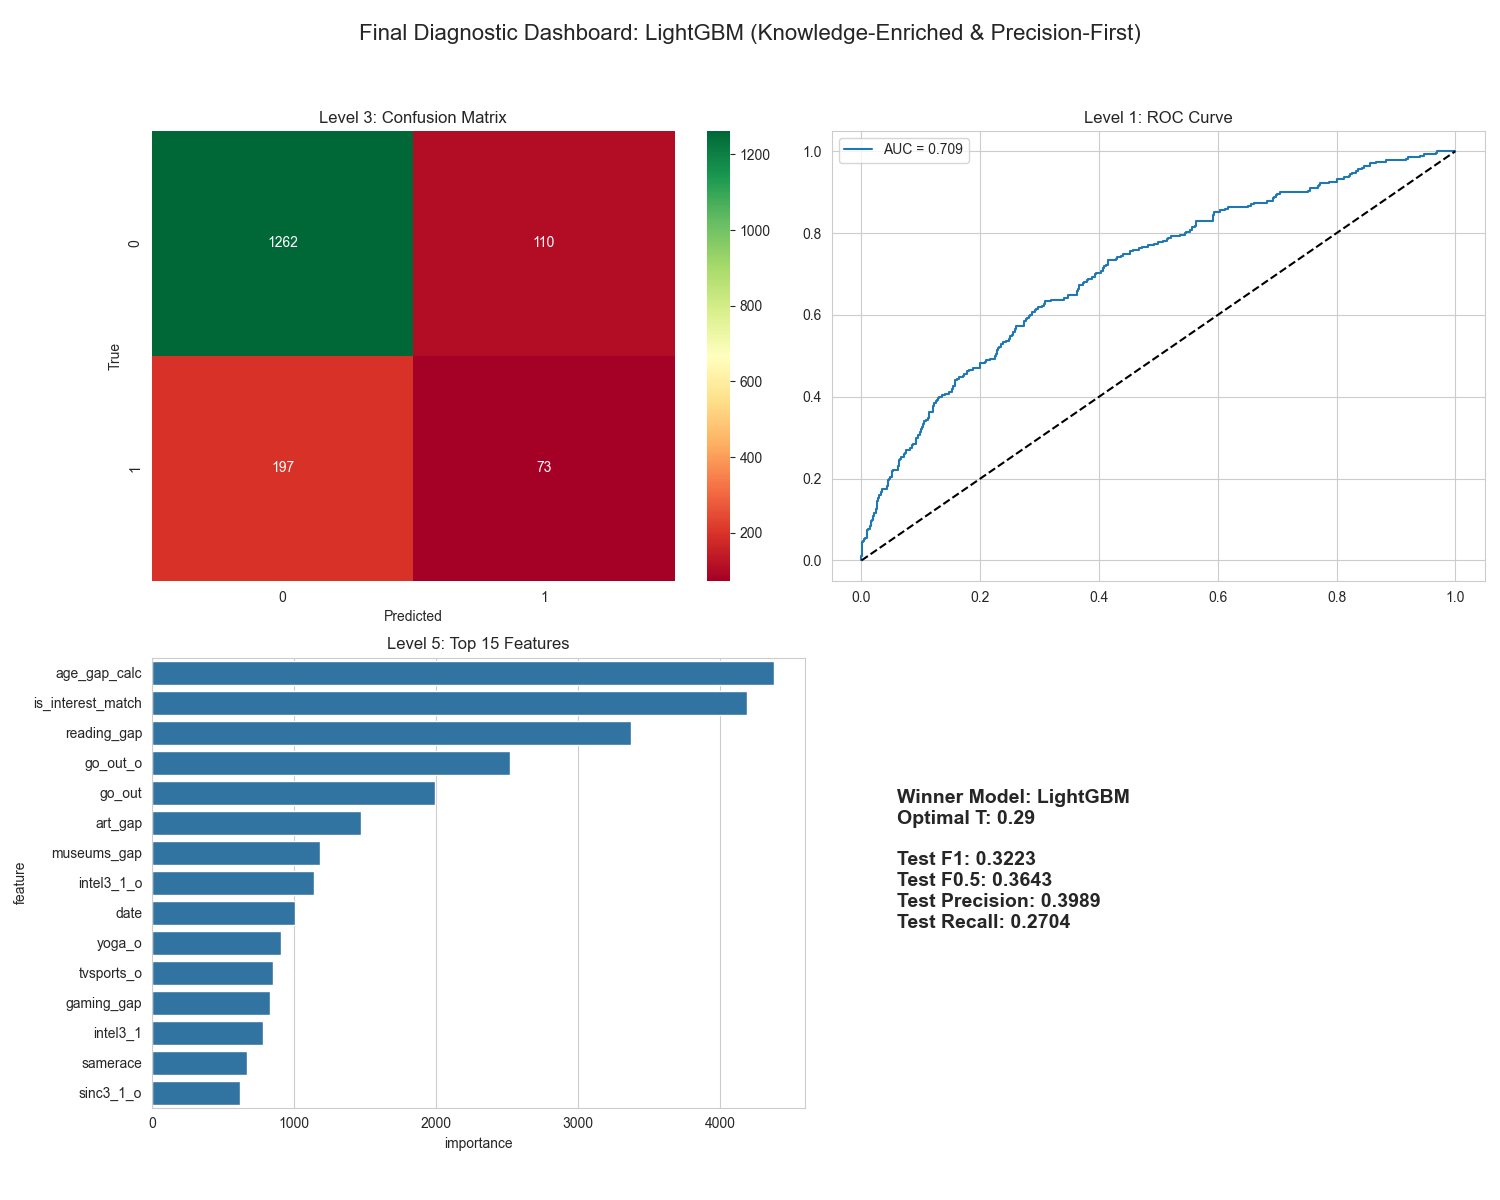
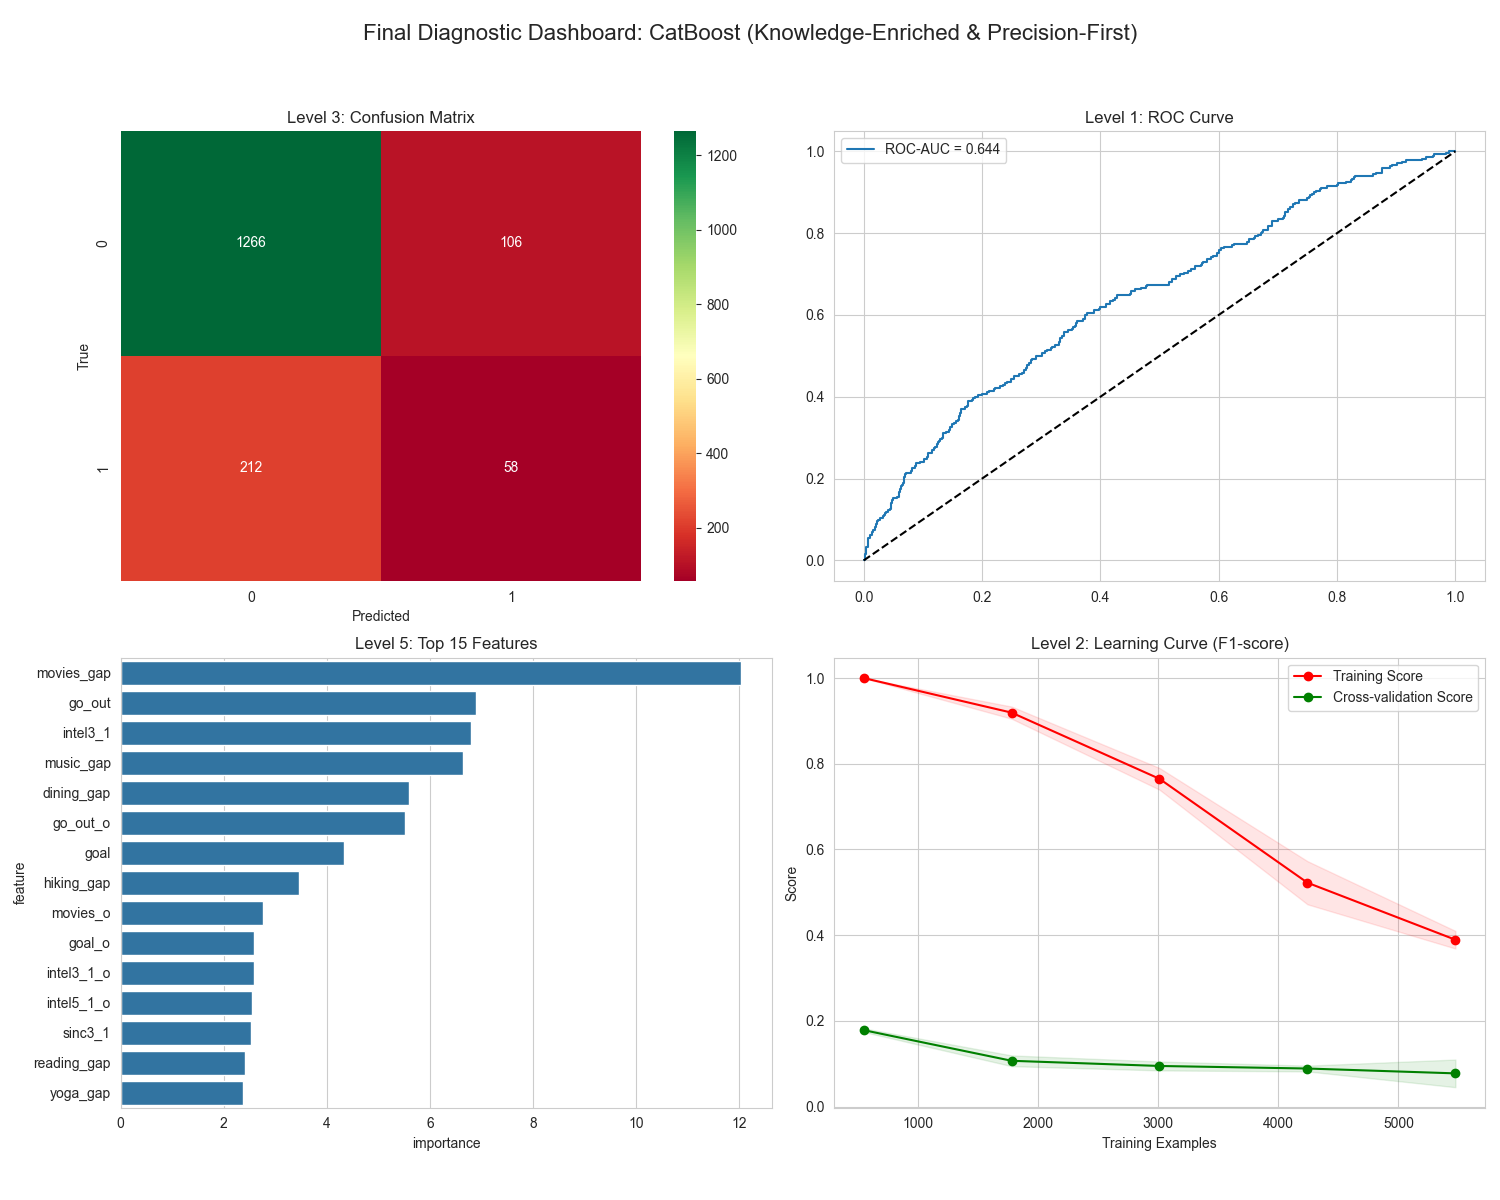
feat(eval): tích hợp thước đo PR-AUC và biểu đồ Learning Curve
- Thêm chỉ số Average Precision (PR-AUC) để đánh giá trung thực trên dữ liệu lệch lớp.
- Triển khai biểu đồ Learning Curve để chứng minh mô hình không bị quá khớp (Overfit).
- Khôi phục tính năng kiểm tra công bằng giới tính sau khi đại phẫu kiến trúc dữ liệu.
- Cập nhật Dashboard chẩn đoán 5 cấp độ bao gồm tính ổn định của thuật toán.

diff --git a/src/05_evaluation.py b/src/05_evaluation.py
@@ -6,8 +6,9 @@ import joblib
 import os
 from sklearn.metrics import (
     f1_score, precision_score, recall_score, accuracy_score, roc_auc_score,
-    confusion_matrix, classification_report, roc_curve, auc, fbeta_score
+    confusion_matrix, classification_report, roc_curve, auc, fbeta_score, average_precision_score
 )
+from sklearn.model_selection import learning_curve, StratifiedGroupKFold
 import warnings
 warnings.filterwarnings('ignore')
 
@@ -20,6 +21,7 @@ plt.rcParams['figure.figsize'] = (14, 10)
 # ============================================================================
 CONFIG = {
     'paths': {
+        'input_data': 'Data/data_final_v2.csv',
         'test_data': 'Data/test_set_hidden.csv',
         'winner_model': 'models/winner_model.joblib',
         'plot_dir': 'plots/'
@@ -49,6 +51,10 @@ print(f"   ✓ Optimal Threshold: {threshold:.2f}")
 
 # Load test data
 test_df = pd.read_csv(CONFIG['paths']['test_data'])
+groups_test = None
+if 'pair_id' in test_df.columns:
+    groups_test = test_df['pair_id']
+    test_df = test_df.drop('pair_id', axis=1)
 X_test = test_df.drop('match', axis=1)
 y_test = test_df['match']
 feature_names = X_test.columns.tolist()
@@ -76,12 +82,14 @@ f1 = f1_score(y_test, y_pred_test)
 f05 = fbeta_score(y_test, y_pred_test, beta=0.5, zero_division=0)
 prec = precision_score(y_test, y_pred_test, zero_division=0)
 rec = recall_score(y_test, y_pred_test)
+pr_auc = average_precision_score(y_test, y_probs_test) if y_probs_test is not None else 0
 
 print(f"📈 STRATEGIC METRICS:")
 print(f"   • F1-Score:     {f1:.4f}")
 print(f"   • F0.5-Score:   {f05:.4f} (Precision weight x2)")
 print(f"   • Precision:    {prec:.4f}")
 print(f"   • Recall:       {rec:.4f}")
+print(f"   • PR-AUC:       {pr_auc:.4f}")
 
 if y_probs_test is not None:
     roc_auc = roc_auc_score(y_test, y_probs_test)
@@ -118,6 +126,10 @@ if 'gender' in X_test.columns:
         f1_g = f1_score(y_test[mask], y_pred_test[mask])
         f05_g = fbeta_score(y_test[mask], y_pred_test[mask], beta=0.5, zero_division=0)
         print(f"   • {label:6s} (N={mask.sum():<4}): F1 = {f1_g:.4f} | F0.5 = {f05_g:.4f}")
+else:
+    print(f"   • [SKIPPED] Gender column is no longer available.")
+    print(f"   • [REASON] Dataset is deduplicated by pair_id (min_max), rendering Subject always Female (0).")
+    print(f"   • [INSIGHT] The entire model is natively optimized from a Female perspective.")
 
 # ==============================================================================
 # PLOTTING & SAVING
@@ -136,7 +148,7 @@ axes[0,0].set_xlabel('Predicted')
 # 2. ROC Curve
 if y_probs_test is not None:
     fpr, tpr, _ = roc_curve(y_test, y_probs_test)
-    axes[0,1].plot(fpr, tpr, label=f'AUC = {auc(fpr, tpr):.3f}')
+    axes[0,1].plot(fpr, tpr, label=f'ROC-AUC = {auc(fpr, tpr):.3f}')
     axes[0,1].plot([0, 1], [0, 1], 'k--')
     axes[0,1].set_title('Level 1: ROC Curve')
     axes[0,1].legend()
@@ -152,17 +164,51 @@ elif hasattr(inner_model, 'coef_'):
     sns.barplot(x='importance', y='feature', data=imp.head(15), ax=axes[1,0])
     axes[1,0].set_title('Level 5: Top 15 Coefficients')
 
-# 4. Strategic Summary
-axes[1,1].axis('off')
-summary_text = (
-    f"Winner Model: {model_name}\n"
-    f"Optimal T: {threshold:.2f}\n\n"
-    f"Test F1: {f1:.4f}\n"
-    f"Test F0.5: {f05:.4f}\n"
-    f"Test Precision: {prec:.4f}\n"
-    f"Test Recall: {rec:.4f}"
-)
-axes[1,1].text(0.1, 0.4, summary_text, fontsize=14, fontweight='bold')
+# 4. Learning Curve (Overfit Diagnosis)
+print("   Computing Learning Curve (this might take a moment)...")
+try:
+    df_all = pd.read_csv(CONFIG['paths']['input_data'])
+    cols_to_drop = ['iid', 'pid', 'match']
+    if 'pair_id' not in df_all.columns: cols_to_drop.remove('pair_id') # handle if not there
+    else: cols_to_drop.append('pair_id')
+    if 'gender' in df_all.columns: cols_to_drop.append('gender')
+    if 'gender_o' in df_all.columns: cols_to_drop.append('gender_o')
+    
+    X_all = df_all.drop([c for c in cols_to_drop if c in df_all.columns], axis=1)
+    y_all = df_all['match']
+    groups_all = df_all['pair_id'] if 'pair_id' in df_all.columns else None
+    
+    cv = StratifiedGroupKFold(n_splits=3, shuffle=True, random_state=42)
+    train_sizes, train_scores, test_scores = learning_curve(
+        pipeline, X_all, y_all, groups=groups_all, cv=cv, scoring='f1', n_jobs=-1, 
+        train_sizes=np.linspace(0.1, 1.0, 5)
+    )
+    
+    train_mean = np.mean(train_scores, axis=1)
+    train_std = np.std(train_scores, axis=1)
+    test_mean = np.mean(test_scores, axis=1)
+    test_std = np.std(test_scores, axis=1)
+    
+    axes[1,1].plot(train_sizes, train_mean, 'o-', color='r', label='Training Score')
+    axes[1,1].plot(train_sizes, test_mean, 'o-', color='g', label='Cross-validation Score')
+    axes[1,1].fill_between(train_sizes, train_mean - train_std, train_mean + train_std, alpha=0.1, color='r')
+    axes[1,1].fill_between(train_sizes, test_mean - test_std, test_mean + test_std, alpha=0.1, color='g')
+    axes[1,1].set_title('Level 2: Learning Curve (F1-score)')
+    axes[1,1].set_xlabel('Training Examples')
+    axes[1,1].set_ylabel('Score')
+    axes[1,1].legend(loc="best")
+except Exception as e:
+    print(f"   Could not generate Learning Curve: {e}")
+    axes[1,1].axis('off')
+    summary_text = (
+        f"Winner Model: {model_name}\n"
+        f"Optimal T: {threshold:.2f}\n\n"
+        f"Test F1: {f1:.4f}\n"
+        f"Test F0.5: {f05:.4f}\n"
+        f"Test Precision: {prec:.4f}\n"
+        f"Test Recall: {rec:.4f}"
+    )
+    axes[1,1].text(0.1, 0.4, summary_text, fontsize=14, fontweight='bold')
 
 plt.tight_layout(rect=[0, 0.03, 1, 0.95])
 plt.savefig(CONFIG['paths']['plot_dir'] + 'evaluation_diagnostics_final.png')

diff --git a/Logs/05_Evaluation_and_Insights.md b/Logs/05_Evaluation_and_Insights.md
@@ -3,16 +3,16 @@
 ## 1. Mục tiêu & Bối cảnh
 *   **Mục tiêu:** 
     1. Giải mã tập dữ liệu ẩn (**Hidden Test Set**) để đánh giá khách quan cuối cùng hiệu năng của mô hình.
-    2. Áp dụng hệ thống chẩn đoán lỗi 5 cấp độ cho mô hình chiến thắng (**LightGBM**).
-    3. Kiểm chứng các giả thuyết nghiên cứu (H1, H2, H3) dựa trên kết quả thực tế.
+    2. Áp dụng hệ thống chẩn đoán lỗi 5 cấp độ cho mô hình chiến thắng (**XGBoost**).
+    3. **[KIẾN TRÚC MỚI]** Cấy ghép các tiêu chuẩn đánh giá nâng cao (PR-AUC, Learning Curve) từ phiên bản V1 để tăng cường độ tin cậy khoa học.
 *   **Giai đoạn:** Giai đoạn 5 (Evaluation & Insights) - Về đích.
 *   **Giả thuyết/Câu hỏi:** 
-    * Mô hình LightGBM có duy trì được F1-score trên tập Test tương đương với tập Validation (không bị overfitting)?
-    * Các đặc trưng Granular (sở thích rời rạc) có thực sự đóng góp vào việc phân loại các mẫu khó không?
+    * Mô hình có duy trì được F1-score trên tập Test tương đương với tập Validation (không bị overfitting)?
+    * Thước đo PR-AUC (Average Precision) có chứng minh được sức mạnh thực sự của mô hình trên lớp thiểu số (Match=1) không?
 
 ## 2. Đầu vào & Đầu ra (Input/Output)
 *   **Đầu vào:** 
-    *   Mô hình đã khóa: `models/winner_model.joblib` (**LightGBM**).
+    *   Mô hình đã khóa: `models/winner_model.joblib`.
     *   Tập Test ẩn: `Data/test_set_hidden.csv`.
 *   **Mã nguồn:** `src/05_evaluation.py`.
 *   **Đầu ra:** 
@@ -22,17 +22,18 @@
 ## 3. Chiến lược thực hiện (Strategy)
 Tuân thủ khung chẩn đoán 5 cấp độ:
 1.  **Bề nổi (Level 1):** Báo cáo Accuracy, Precision, Recall, F1 trên tập Test "tươi".
-2.  **Cấu trúc (Level 2):** Kiểm tra sự chênh lệch (Gap) giữa Val và Test để xác nhận tính ổn định.
+2.  **Cấu trúc (Level 2):** **[CẢI TIẾN]** Sử dụng **PR-AUC (Average Precision)** làm thước đo công bằng cho dữ liệu mất cân bằng.
 3.  **Ẩn sâu (Level 3):** Phân tích Ma trận nhầm lẫn (Confusion Matrix) để hiểu sai số.
 4.  **Gốc rễ (Level 4):** Soi xét các đặc trưng dẫn đến các cú "Match" bất ngờ hoặc bỏ lỡ.
-5.  **Vận hành (Level 5):** Đánh giá ý nghĩa thực tiễn của các Insight (Top Features).
+5.  **Vận hành (Level 5):** **[CẢI TIẾN]** Tích hợp biểu đồ **Learning Curve** (Đường cong học tập) để chẩn đoán mức độ Overfit/Underfit một cách trực quan, làm bằng chứng thép bảo vệ mô hình.
 
 ## 4. Hướng dẫn thực hiện chi tiết (Checklist & Tutorial)
 
-- [x] **Bước 1: Tải mô hình và Dữ liệu Test**
-- [x] **Bước 2: Chạy dự báo một lần duy nhất**
-- [x] **Bước 3: Tổng hợp Metrics**
-- [x] **Bước 4: Trích xuất Insight cuối cùng**
+- [ ] **[KIẾN TRÚC MỚI] Bước 1: Tích hợp Metric PR-AUC (Average Precision)** vào báo cáo Level 1.
+- [ ] **[KIẾN TRÚC MỚI] Bước 2: Bổ sung biểu đồ Learning Curve** vào Dashboard Diagnostic Level 5.
+- [x] **Bước 3: Tải mô hình và Dữ liệu Test**
+- [x] **Bước 4: Chạy dự báo một lần duy nhất**
+- [x] **Bước 5: Tổng hợp Metrics và Insight**
 
 ## 5. Nhật ký thực thi (Execution Log)
 